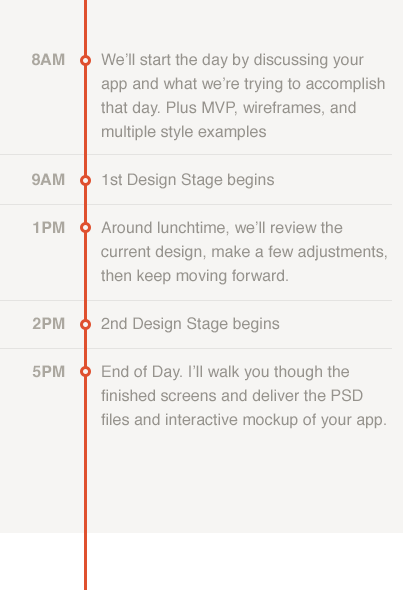
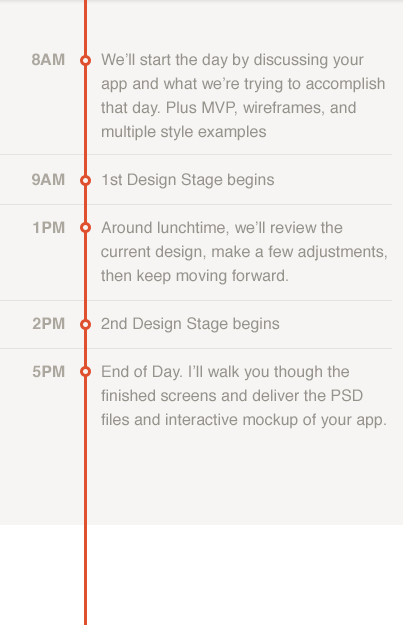
Style tweaks

Changed region(s): [[0.0596, 0.2746, 0.9529, 0.7322], [0.1787, 0.0915, 0.9529, 0.2441], [0.0596, 0.061, 0.1489, 0.122]]

diff --git a/Public/css/ramos-site.css b/Public/css/ramos-site.css
@@ -1,5 +1,6 @@
 body {
   border-top: 16px solid #F94627;
+  font-family: "droid-serif";
 }
 
 footer {
@@ -13,14 +14,15 @@ footer {
 }
 
 .scrolling {
-  -webkit-box-shadow: inset 0 0 5px rgba(0,0,0,.09);
-  -moz-box-shadow: inset 0 0 5px rgba(0,0,0,.09);
-  box-shadow: inset 0 0 5px rgba(0,0,0,.09);
+  -webkit-box-shadow: 1px 3px 6px rgba(187,180,172,0.6);
+  -moz-box-shadow: 1px 3px 6px rgba(187,180,172,0.6);
+  box-shadow: 1px 3px 6px rgba(187,180,172,0.6);
 }
 
 #social-links {
   position: absolute;
   right: 0;
+  margin-top: 20px;
 }
 
 #social-links ul {
@@ -29,10 +31,11 @@ footer {
 
 #social-links ul li {
   display: inline-block;
+  margin-right: 10px;
 }
 
 #site-header {
-  margin-top: 2em;
+  margin-top: 120px;
   text-align: center;
 }
 #site-header h1 {
@@ -57,6 +60,7 @@ footer {
   height: 670px;
   width: 500px;
   margin: 0 auto;
+  margin-bottom: 150px;
 }
 
 #header-slideshow-small {
@@ -68,16 +72,23 @@ footer {
 
 .inline-page-padding-bottom
 {
-  padding-bottom: 4em;
+  padding-bottom: 2em;
 }
 
 .footer-page
 {
   padding: 1em 0 5em 0;
   background-color: #d8d1c8;
-  -webkit-box-shadow: inset 0 0 5px rgba(0,0,0,.09);
-  -moz-box-shadow: inset 0 0 5px rgba(0,0,0,.09);
-  box-shadow: inset 0 0 5px rgba(0,0,0,.09);
+}
+
+#page-schedule-day {
+  border-bottom: none;
+}
+
+#page-about {
+  -webkit-box-shadow: none;
+  -moz-box-shadow: none;
+  box-shadow: none;
 }
 
 .inline-page-subsection
@@ -118,6 +129,7 @@ p.inline-subheader {
   display: inline-block;
 }
 
+
 .inline-page {
   background-color: #E5DFD8;
   border-bottom: 0.25em solid #F94627;
@@ -134,7 +146,7 @@ p.inline-subheader {
 
 .inline-page p {
   color: #7A746D;
-  font-size: 16pt;
+  font-size: 16px;
 }
 
 .relative-positioning
@@ -156,6 +168,7 @@ p.inline-subheader {
 {
   background: url("/img/iphone_elements.png") no-repeat;
   background-position: 100%;
+  height: 200px;
 }
 
 .has_iphone_screen_examples_image
@@ -166,22 +179,31 @@ p.inline-subheader {
 
 #service-schedule
 {
-  padding-top: 53px;
   background-color: #F6F5F3;
   min-height: 828px;
   margin-bottom: 3em;
   -webkit-border-radius: 5px;
   -moz-border-radius: 5px;
   border-radius: 5px;
-  background-color: #fff;
   -webkit-box-shadow: 0 0 5px rgba(182,174,164,.41);
   -moz-box-shadow: 0 0 5px rgba(182,174,164,.41);
   box-shadow: 0 0 5px rgba(182,174,164,.41);
 }
 
+#service-schedule .inner_box_shadow {
+  background: url('/img/schedule_inner_shadow.png') repeat-x;
+  height: 4px;
+  width: 100%;
+}
+
 img.watch-me-work {
   margin-left: 46px;
   margin-top: -8px;
+}
+
+#your-app-text {
+  margin-top: 89px;
+  padding-bottom: 3em;
 }
 
 .bottom-margin {
@@ -190,8 +212,13 @@ img.watch-me-work {
 #service-schedule .section-head
 {
   background-color: #FFFFFF;
+  padding-top: 53px;
+  padding-bottom: 66px;
   text-align: center;
-  margin-bottom: 2em;
+  border-radius: 5px;
+  -webkit-box-shadow: inset 0 0 5px rgba(0,0,0,.09);
+  -moz-box-shadow: inset 0 0 5px rgba(0,0,0,.09);
+  box-shadow: inset 0 0 5px rgba(0,0,0,.09);
 }
 
 #service-schedule .section-head p {
@@ -199,6 +226,7 @@ img.watch-me-work {
   font-style: italic;
   color: #9a948c;
   padding: 0 5em;
+  font-size: 20px;
 }
 
 .highlight-text {
@@ -209,6 +237,7 @@ img.watch-me-work {
 {
   overflow: visible;
   position: absolute;
+  margin-top:-4px;
   /*background: url("/img/schedule_graphic_timeline.png") no-repeat;
   height: 590px;
   width: 403px;*/
@@ -223,7 +252,8 @@ img.watch-me-work {
 {
   font-style: italic;
   color: #89837c;
-  font-size: 20pt;
+  font-size: 20px;
+  font-weight: normal;
 }
 
 /* hacks */
@@ -253,12 +283,12 @@ img.watch-me-work {
 }
 
 #get-started-schedule-container {
-  padding-top: 8%;
+  padding-top: 5%;
 }
 .button.success {
   background-color: #FF6D4B;
   border: none;
-  font-size: 18pt;
+  font-size: 20px;
 }
 
 .button.radius {
@@ -282,7 +312,7 @@ blockquote {
   font-family: "droid-serif";
   color: #F94627;
   font-style: italic;
-  font-size: 40.6pt;
+  font-size: 40.6px;
   text-align: center;
   line-height: 1.25em;
 }
@@ -291,6 +321,7 @@ blockquote cite {
   color: #B5ADA4;
   font-family: "futura-pt";
   font-size: 18pt;
+  font-style: normal;
   font-weight: bold;
 }
 
@@ -306,7 +337,7 @@ blockquote.secondary-quote-small cite {
 }
 
 blockquote.secondary-quote {
-  font-size: 23.17pt;
+  font-size: 23.17px;
   font-style: italic;
   color: #494642;
 }
@@ -380,6 +411,6 @@ img.logo {
 
 h3 {
   font-family: "futura-pt";
-  font-size: 37pt;
+  font-size: 40px;
   color: #4A4642;
 }

diff --git a/Public/index.html b/Public/index.html
@@ -65,8 +65,8 @@
     </div>
     <div class="row" data-magellan-destination="page-overview">
       <div class="large-12 columns has_fortis_app_preview_image hide-for-small">
-        <div class="large-6 columns small-12">
-          <h3>Your app. Designed in a single day.</h3>
+        <div class="large-6 columns small-12" id="your-app-text">
+          <h3>Your app.<br />Designed in a single day.</h3>
           <p>What if you could have your app designed and ready for production before dinner tomorrow? Appe Diem offers exactly that. The concept and design of your app idea laid out and ready for that next step.</p>
         </div>
       </div>
@@ -104,7 +104,7 @@
 
     <div class="row">
       <div class="large-12 columns" id="iphone_elements_image">
-        <div class="large-6 columns">
+        <div class="large-5 columns">
           <p>The basic idea: There will always be room for iteration and adding polish to your app’s interface down the road, but Appe Diem quickly gets you to that place of “Done” so that you can move forward.</p>
         </div>
       </div>
@@ -126,8 +126,9 @@
         <div id="service-schedule" class="has_iphone_screen_examples_image hide-for-small">
           <div class="section-head">
             <h3>The Day's Schedule</h3>
-            <p>You will end up with <span class="highlight-text">3-4 finished screens + an App icon</span>, plus an interactive mockup of your app — ready to show an investor, developer, or your mom. Whatever your next step is, you’re moving forward. </p>
+            <p id="schedule_header_text">You will end up with <span class="highlight-text">3-4 finished screens + an App icon</span>, plus an interactive mockup of your app — ready to show an investor, developer, or your mom. Whatever your next step is, you’re moving forward. </p>
           </div>
+          <div class="inner_box_shadow"></div>
           <div class="section-body relative-positioning">
             <img src="/img/schedule_graphic_timeline.png" alt="Schedule Timeline"/>
           </div>
